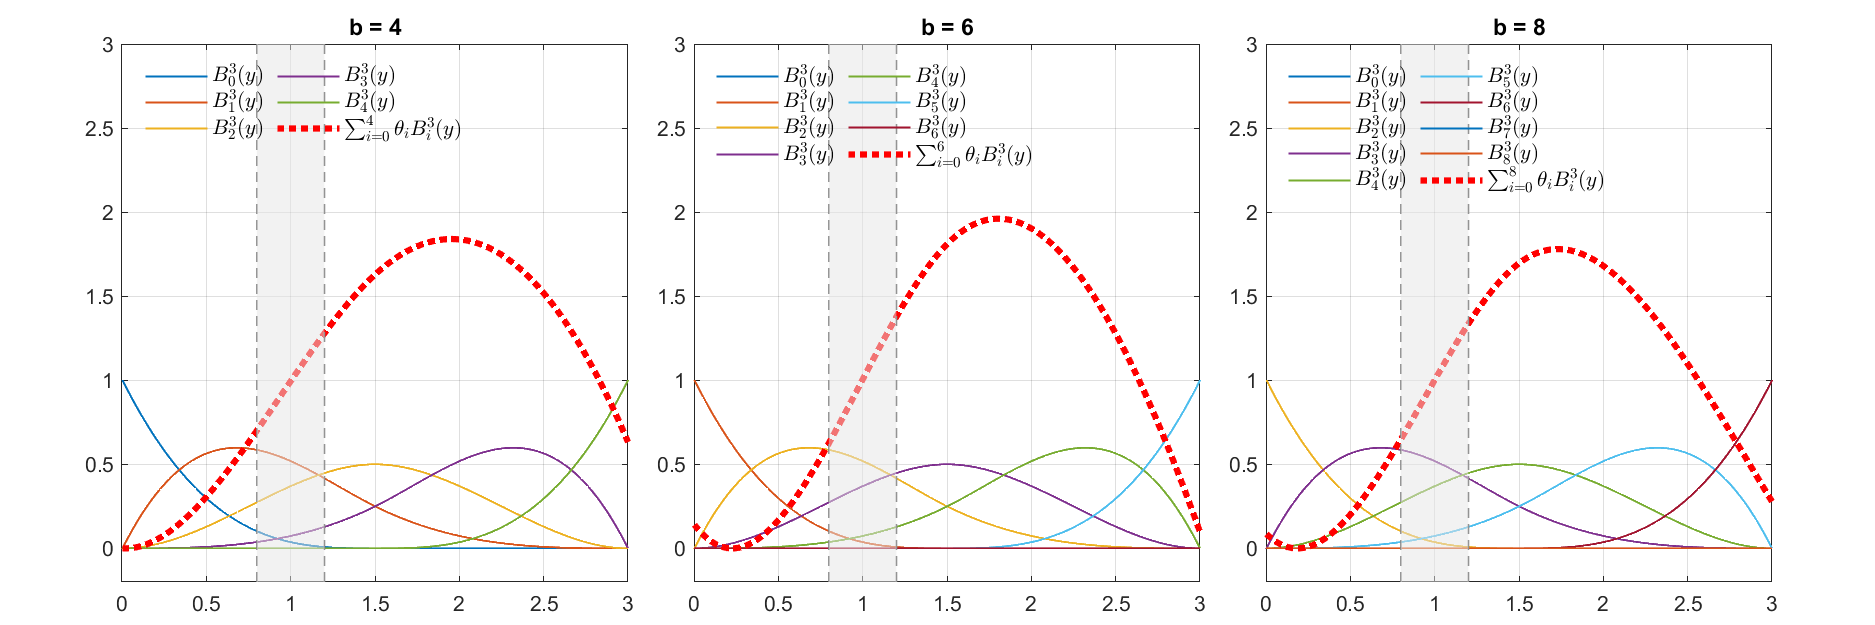
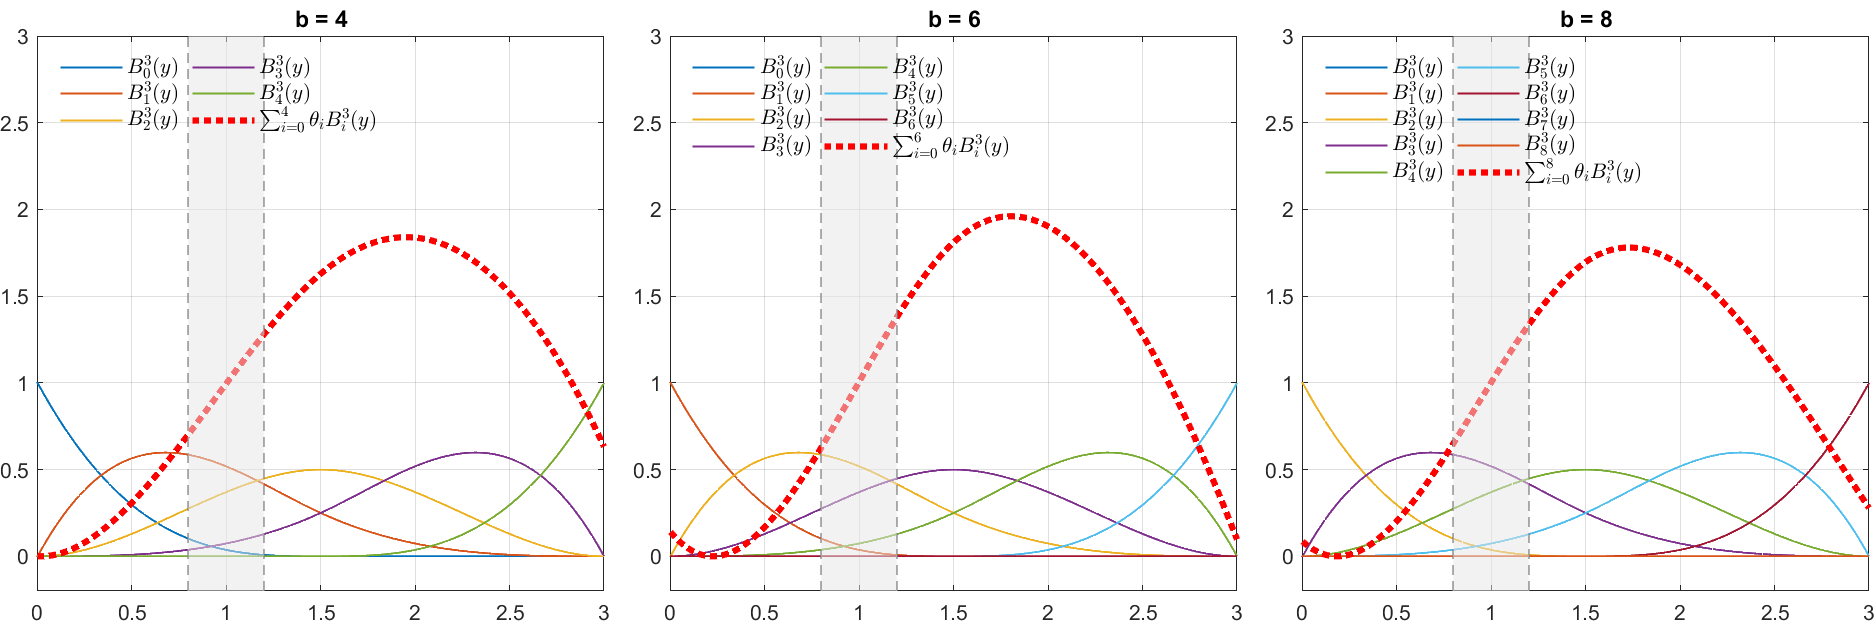
Add script for generating images for Beamer slides

diff --git a/03  條件密度積分方法（CDI method） - 2021 JBF/Procedure__Plot.m b/03  條件密度積分方法（CDI method） - 2021 JBF/Procedure__Plot.m
@@ -108,7 +108,7 @@ y_max = 1.9;
 
 Cubic_BSpline_Basis_Functions_g_combined = figure;
 
-layout = tiledlayout(1, 3, 'TileSpacing', 'Compact', 'Padding', 'Compact');
+layout = tiledlayout(1, 3, 'TileSpacing', 'Compact', 'Padding', 'None');
 
 for b = [4, 6, 8]
 
@@ -177,7 +177,7 @@ y_max = 3;
 
 Cubic_BSpline_Basis_Functions_g_combined_Full = figure;
 
-layout = tiledlayout(1, 3, 'TileSpacing', 'Compact', 'Padding', 'Compact');
+layout = tiledlayout(1, 3, 'TileSpacing', 'Compact', 'Padding', 'None');
 
 for b = [4, 6, 8]
 
@@ -246,7 +246,7 @@ y_max = 1.5;
 
 g_and_SDF_combined = figure;
 
-layout = tiledlayout(1, 3, 'TileSpacing', 'Compact', 'Padding', 'Compact');
+layout = tiledlayout(1, 3, 'TileSpacing', 'Compact', 'Padding', 'None');
 
 for b = [4, 6, 8]
 
@@ -283,4 +283,213 @@ set(gcf, 'Position', [50, 50, 1200, 400]);
 
 filename = 'g_and_SDF_combined.png';
 saveas(gcf, fullfile(Path_Output, filename));
+clear filename
+
+
+%% Plot - Beamer
+
+% Define Color (LaTeX Beamer Theme - Metropolis)
+
+mRed        = '#e74c3c';
+mDarkRed    = '#b22222';
+mLightBlue  = '#3279a8';
+mDarkBlue   = '#2c3e50';
+mDarkGreen  = '#4b8b3b';
+mOrange     = '#f39c12';
+mBackground = '#FAFAFA';
+
+
+%% Plot - Beamer: (1) Cubic B-Spline with g function value
+
+y_min = 0;
+y_max = 1.9;
+
+Cubic_BSpline_Basis_Functions_g_combined = figure;
+set(gcf, 'Color', mBackground);
+
+layout = tiledlayout(1, 3, 'TileSpacing', 'Compact', 'Padding', 'None');
+
+for b = [4, 6, 8]
+
+    y_BS = nan(b + 1, length(current_month_y_filtered));
+    for i = 1:(b + 1)
+        y_BS(i, :) = Bspline_basis_function_value(3, b, min_y, max_y, i, current_month_y_filtered);
+    end
+    g_function_value = sum(transpose(eval(['theta_hat_', num2str(b)])) .* y_BS, 1);
+
+    nexttile;
+
+    % Plot cubic B-Spline basis functions
+    for i = 1:(b + 1)
+        plot(current_month_y_filtered, y_BS(i, :), 'LineStyle', '-', 'LineWidth', 1);
+        hold on;
+        y_max = max(y_max, max(y_BS(i, :)));
+    end
+
+    % Plot g function value
+    plot(current_month_y_filtered, g_function_value, 'LineStyle', ':', 'LineWidth', 3, 'Color', 'r');
+    y_max = max(y_max, max(g_function_value));
+
+    % Plot vertical lines
+    x_vals = [x_start, x_end];
+    
+    for j = 1:length(x_vals)
+        plot([x_vals(j), x_vals(j)], [y_min, 1.2 * y_max], '--', 'LineWidth', 0.8, 'Color', [0.5 0.5 0.5]);
+    end
+    
+    fill([x_start x_end x_end x_start], ...
+         [y_min y_min y_max y_max], ...
+         fill_color, 'FaceAlpha', 0.5, 'EdgeColor', 'none');
+
+    % Set limits
+    ylim([y_min, y_max]);
+    xlim([0, 1.2]);
+    grid on;
+
+    % Add title
+    title(['b = ', num2str(b)], 'FontName', 'Fira Sans', 'FontSize', 12);
+
+    % Add Legend
+    type_legend = cell(1, b + 2);
+    for i = 1:(b + 1)
+        type_legend{i} = ['$B^{' num2str(3) '}_{' num2str(i - 1) '} (y)$'];
+    end
+    type_legend{b + 2} = ['$\sum_{i=0}^{' num2str(b) '} \theta_{i} B^{' num2str(3) '}_{i} (y)$'];
+    legend(type_legend, 'Interpreter', 'Latex', ...
+                        'Location', 'northwest', ...
+                        'Box', 'Off', ...
+                        'FontSize', 12, ...
+                        'NumColumns', 2);
+    hold off;
+
+end
+
+% sgtitle('Cubic B-Spline with g function value');
+
+set(gcf, 'Position', [50, 50, 1200, 400], 'Color', mBackground);
+
+filename = 'Slide_Cubic_BSpline_Basis_Functions_g_combined.png';
+exportgraphics(gcf, fullfile(Path_Output, filename), 'BackgroundColor', 'current');
+clear filename y_min y_max y_BS g_function_value
+
+
+%% Plot - Beamer: (2) Cubic B-Spline with g function value (Full)
+
+y_min = -0.2;
+y_max = 3;
+
+Cubic_BSpline_Basis_Functions_g_combined_Full = figure;
+set(gcf, 'Color', mBackground);
+
+layout = tiledlayout(1, 3, 'TileSpacing', 'Compact', 'Padding', 'None');
+
+for b = [4, 6, 8]
+
+    y_BS = nan(b + 1, length(current_month_y));
+    for i = 1:(b + 1)
+        y_BS(i, :) = Bspline_basis_function_value(3, b, min_y, max_y, i, current_month_y);
+    end
+    g_function_value = sum(transpose(eval(['theta_hat_', num2str(b)])) .* y_BS, 1);
+
+    nexttile;
+
+    % Plot cubic B-Spline basis functions
+    for i = 1:(b + 1)
+        plot(current_month_y, y_BS(i, :), 'LineStyle', '-', 'LineWidth', 1);
+        hold on;
+        y_max = max(y_max, max(y_BS(i, :)));
+    end
+
+    % Plot g function value
+    plot(current_month_y, g_function_value, 'LineStyle', ':', 'LineWidth', 3, 'Color', 'r');
+    y_max = max(y_max, max(g_function_value));
+
+    % Plot vertical lines
+    x_vals = [x_start, x_end];
+    
+    for j = 1:length(x_vals)
+        plot([x_vals(j), x_vals(j)], [y_min, 1.2 * y_max], '--', 'LineWidth', 0.8, 'Color', [0.5 0.5 0.5]);
+    end
+    
+    fill([x_start x_end x_end x_start], ...
+         [y_min y_min y_max y_max], ...
+         fill_color, 'FaceAlpha', 0.5, 'EdgeColor', 'none');
+
+    % Set limits
+    ylim([y_min, y_max]);
+    xlim([0, 3]);
+    grid on;
+
+    % Add title
+    title(['b = ', num2str(b)], 'FontName', 'Fira Sans', 'FontSize', 12);
+
+    % Add Legend
+    type_legend = cell(1, b + 2);
+    for i = 1:(b + 1)
+        type_legend{i} = ['$B^{' num2str(3) '}_{' num2str(i - 1) '} (y)$'];
+    end
+    type_legend{b + 2} = ['$\sum_{i=0}^{' num2str(b) '} \theta_{i} B^{' num2str(3) '}_{i} (y)$'];
+    legend(type_legend, 'Interpreter', 'Latex', ...
+                        'Location', 'northwest', ...
+                        'Box', 'Off', ...
+                        'FontSize', 12, ...
+                        'NumColumns', 2);
+    hold off;
+
+end
+
+% sgtitle('Cubic B-Spline with g function (Full range)');
+
+set(gcf, 'Position', [50, 50, 1200, 400], 'Color', mBackground);
+
+filename = 'Slide_Cubic_BSpline_Basis_Functions_g_combined_Full.png';
+exportgraphics(gcf, fullfile(Path_Output, filename), 'BackgroundColor', 'current');
+clear filename y_min y_max y_BS g_function_value
+
+
+%% Plot - Beamer: (3) g Function and SDF
+
+y_min = 0.6;
+y_max = 1.5;
+
+g_and_SDF_combined = figure;
+set(gcf, 'Color', mBackground);
+
+layout = tiledlayout(1, 3, 'TileSpacing', 'Compact', 'Padding', 'None');
+
+for b = [4, 6, 8]
+
+    y_BS = nan(b + 1, length(current_month_y_filtered));
+    for i = 1:(b + 1)
+        y_BS(i, :) = Bspline_basis_function_value(3, b, min_y, max_y, i, current_month_y_filtered);
+    end
+    g_function_value = sum(transpose(eval(['theta_hat_', num2str(b)])) .* y_BS, 1);
+
+    SDF = exp(- RF .* TTM) .* (1 ./ g_function_value);
+
+    nexttile;
+
+    plot(current_month_y_filtered, g_function_value, 'LineStyle', '--', 'LineWidth', 2, 'Color', 'r');
+    hold on;
+
+    scatter(current_month_y_filtered, SDF, 'Marker', '.', 'MarkerEdgeColor', 'b');
+
+    % Set limits
+    xlim([x_start, x_end]);
+    ylim([y_min, y_max]);
+    xticks(x_start:0.05:x_end);
+    yticks(y_min:0.1:y_max);
+    grid on;
+
+    title(['b = ', num2str(b)], 'FontName', 'Fira Sans', 'FontSize', 12);
+    legend({'g Function', 'SDF'}, 'Location', 'northeast', 'Box', 'Off', 'FontSize', 12);
+
+end
+
+% sgtitle('g Function and SDF');
+
+set(gcf, 'Position', [50, 50, 1200, 400], 'Color', mBackground);
+
+filename = 'Slide_g_and_SDF_combined.png';
+exportgraphics(gcf, fullfile(Path_Output, filename), 'BackgroundColor', 'current');
 clear filename
